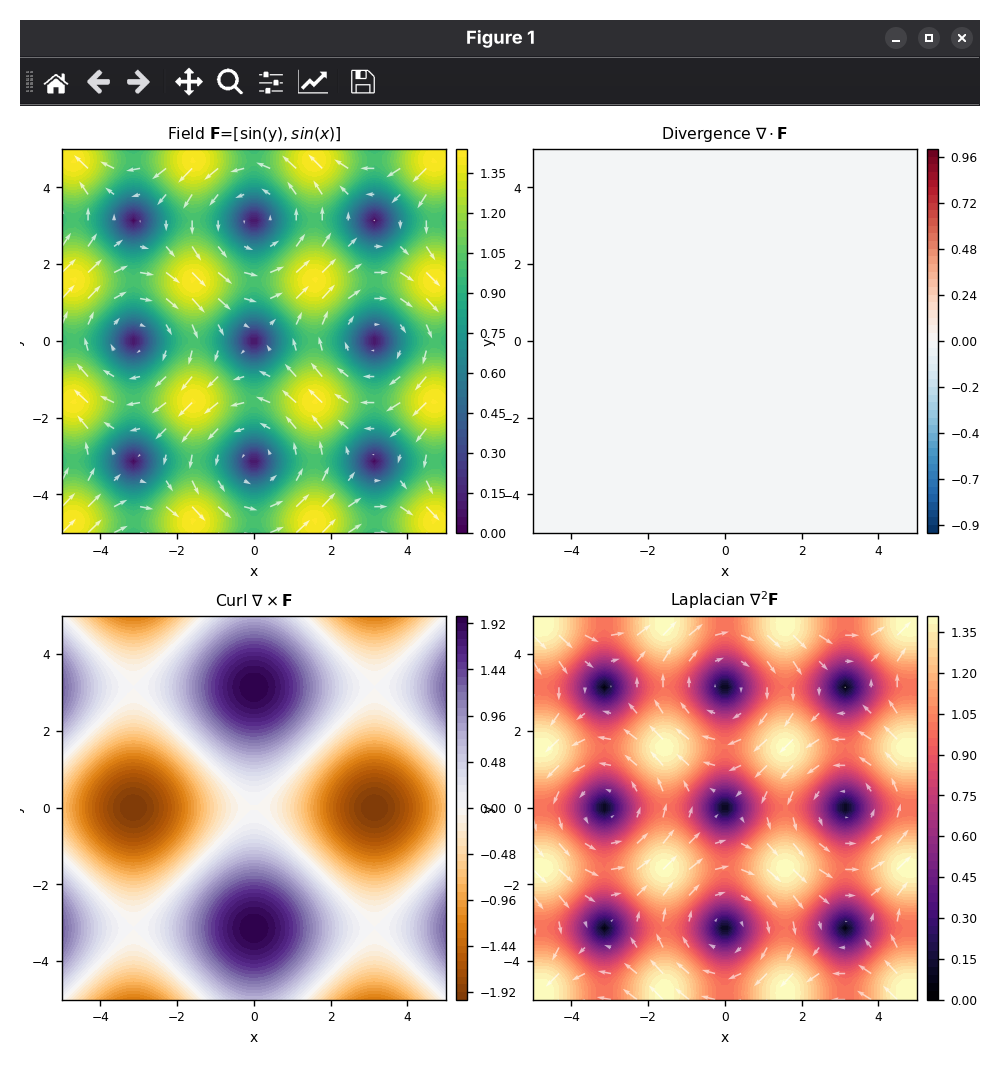
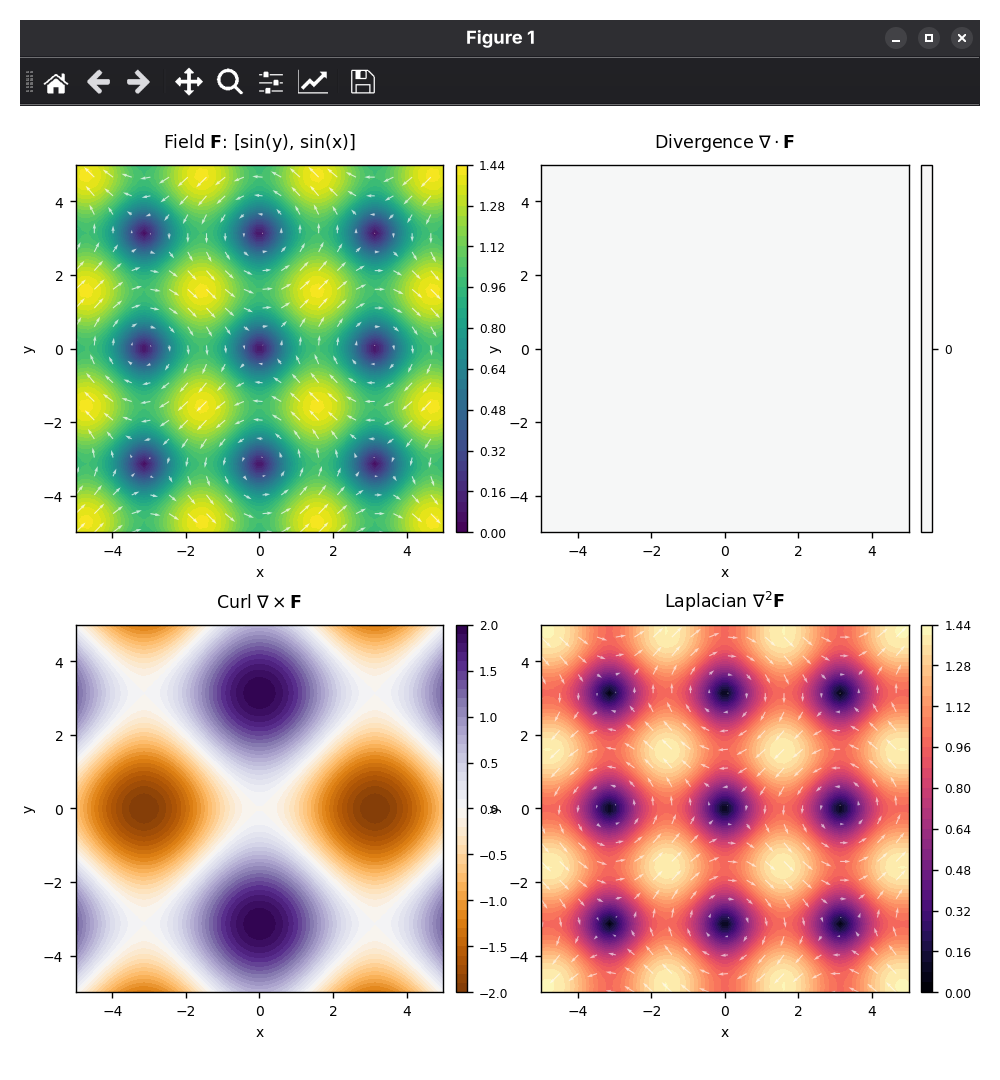
Add files via upload

diff --git a/vector_function.py b/vector_function.py
@@ -14,7 +14,7 @@ def eval_func(func_str, x_grid, y_grid):
 # ---- grid setup ----
 res = 60 
 axis = 5 
-x_coords = np.linspace(-axis, axis, res)
+x_coords = np.linspace(-axis, axis, res)       
 y_coords = np.linspace(-axis, axis, res)
 X, Y = np.meshgrid(x_coords, y_coords, indexing='xy')
 dx, dy = x_coords[1] - x_coords[0], y_coords[1] - y_coords[0]
@@ -31,63 +31,57 @@ dVdy, dVdx = np.gradient(V, dy, dx, edge_order=2)
 _, d2U_dx2 = np.gradient(dUdx, dy, dx, edge_order=2); d2U_dy2, _ = np.gradient(dUdy, dy, dx, edge_order=2)
 _, d2V_dx2 = np.gradient(dVdx, dy, dx, edge_order=2); d2V_dy2, _ = np.gradient(dVdy, dy, dx, edge_order=2)
 
-# Floating point noise cleaning
-div = np.round(dUdx + dVdy, 10)
-curl = np.round(dVdx - dUdy, 10)
-Lx, Ly = np.round(d2U_dx2 + d2U_dy2, 10), np.round(d2V_dx2 + d2V_dy2, 10)
-L_mag = np.round(np.sqrt(Lx**2 + Ly**2), 10)
+# Precise rounding to kill glitches
+div = np.round(dUdx + dVdy, 6)
+curl = np.round(dVdx - dUdy, 6)
+Lx, Ly = np.round(d2U_dx2 + d2U_dy2, 6), np.round(d2V_dx2 + d2V_dy2, 6)
+L_mag = np.round(np.sqrt(Lx**2 + Ly**2), 6)
 
-# ---- plotting ----
-fig, axs = plt.subplots(2, 2, figsize=(11, 9))
+# ---- plotting helpers ----
+fig, axs = plt.subplots(2, 2, figsize=(13, 11))
+skip = (slice(None, None, 3), slice(None, None, 3))
 
-def plot_with_colorbar(ax, data, title, cmap, symmetric=True):
+def format_2d(ax, data, title, cmap):
     d_min, d_max = np.min(data), np.max(data)
     
-    if np.isclose(d_min, d_max, atol=1e-8):
-        levels = np.linspace(d_min - 1, d_max + 1, 51)
-        vmin, vmax = d_min - 1, d_max + 1
+    # Check if data is constant (The Scalar script logic)
+    if np.isclose(d_min, d_max, atol=1e-4):
+        vmin, vmax = d_min - 0.5, d_max + 0.5
+        im = ax.contourf(X, Y, data, levels=1, cmap=cmap, vmin=vmin, vmax=vmax)
+        ticks = [d_min] 
     else:
-        levels = 50
-        if symmetric:
-            limit = max(abs(d_min), abs(d_max))
-            vmin, vmax = -limit, limit
-        else:
-            vmin, vmax = d_min, d_max
-            
-    im = ax.contourf(X, Y, data, levels=levels, cmap=cmap, vmin=vmin, vmax=vmax)
+        im = ax.contourf(X, Y, data, levels=40, cmap=cmap)
+        ticks = None
+
+    ax.set_aspect('equal')
+    ax.set_title(title, fontsize=10, pad=10)
+    ax.tick_params(labelsize=8)
     
-    # Smaller title
-    ax.set_title(title, fontsize=9, pad=6)
-    
-    # Thinner colorbar to maximize subplot width
     divider = make_axes_locatable(ax)
-    cax = divider.append_axes("right", size="3%", pad=0.08)
-    cb = fig.colorbar(im, cax=cax)
+    cax = divider.append_axes("right", size="3%", pad=0.1)
+    cb = fig.colorbar(im, cax=cax, ticks=ticks)
     cb.ax.tick_params(labelsize=7)
+    return im
 
-skip = (slice(None, None, 4), slice(None, None, 4))
-
-# 1. Field Magnitude + Arrows (Default Arrow Magnitude)
-plot_with_colorbar(axs[0, 0], F_mag, fr"Field $\mathbf{{F}}$=[{Fx_str}$,{Fy_str}$]", "viridis", symmetric=False)
+# ---- 1. Field Magnitude ----
+format_2d(axs[0, 0], F_mag, fr"Field $\mathbf{{F}}$: [{Fx_str}, {Fy_str}]", "viridis")
 axs[0, 0].quiver(X[skip], Y[skip], U[skip], V[skip], color='white', alpha=0.7)
 
-# 2. Divergence
-plot_with_colorbar(axs[0, 1], div, r"Divergence $\nabla \cdot \mathbf{F}$", "RdBu_r")
+# ---- 2. Divergence ----
+format_2d(axs[0, 1], div, r"Divergence $\nabla \cdot \mathbf{F}$", "RdBu_r")
 
-# 3. Curl
-plot_with_colorbar(axs[1, 0], curl, r"Curl $\nabla \times \mathbf{F}$", "PuOr")
+# ---- 3. Curl ----
+format_2d(axs[1, 0], curl, r"Curl $\nabla \times \mathbf{F}$", "PuOr")
 
-# 4. Vector Laplacian Magnitude + Arrows (Default Arrow Magnitude)
-plot_with_colorbar(axs[1, 1], L_mag, r"Laplacian $\nabla^2 \mathbf{F}$", "magma", symmetric=False)
-if np.max(L_mag) > 1e-7:
+# ---- 4. Laplacian ----
+format_2d(axs[1, 1], L_mag, r"Laplacian $\nabla^2 \mathbf{F}$", "magma")
+if np.max(L_mag) > 1e-5:
     axs[1, 1].quiver(X[skip], Y[skip], Lx[skip], Ly[skip], color='white', alpha=0.6)
 
-# Font and Subplot Spacing
+# Final cleanup
 for ax in axs.flat:
-    ax.set_aspect('equal')
-    ax.tick_params(labelsize=7)
     ax.set_xlabel("x", fontsize=8)
     ax.set_ylabel("y", fontsize=8)
 
-plt.tight_layout(pad=1.5)
+plt.tight_layout(pad=3.0)
 plt.show()
